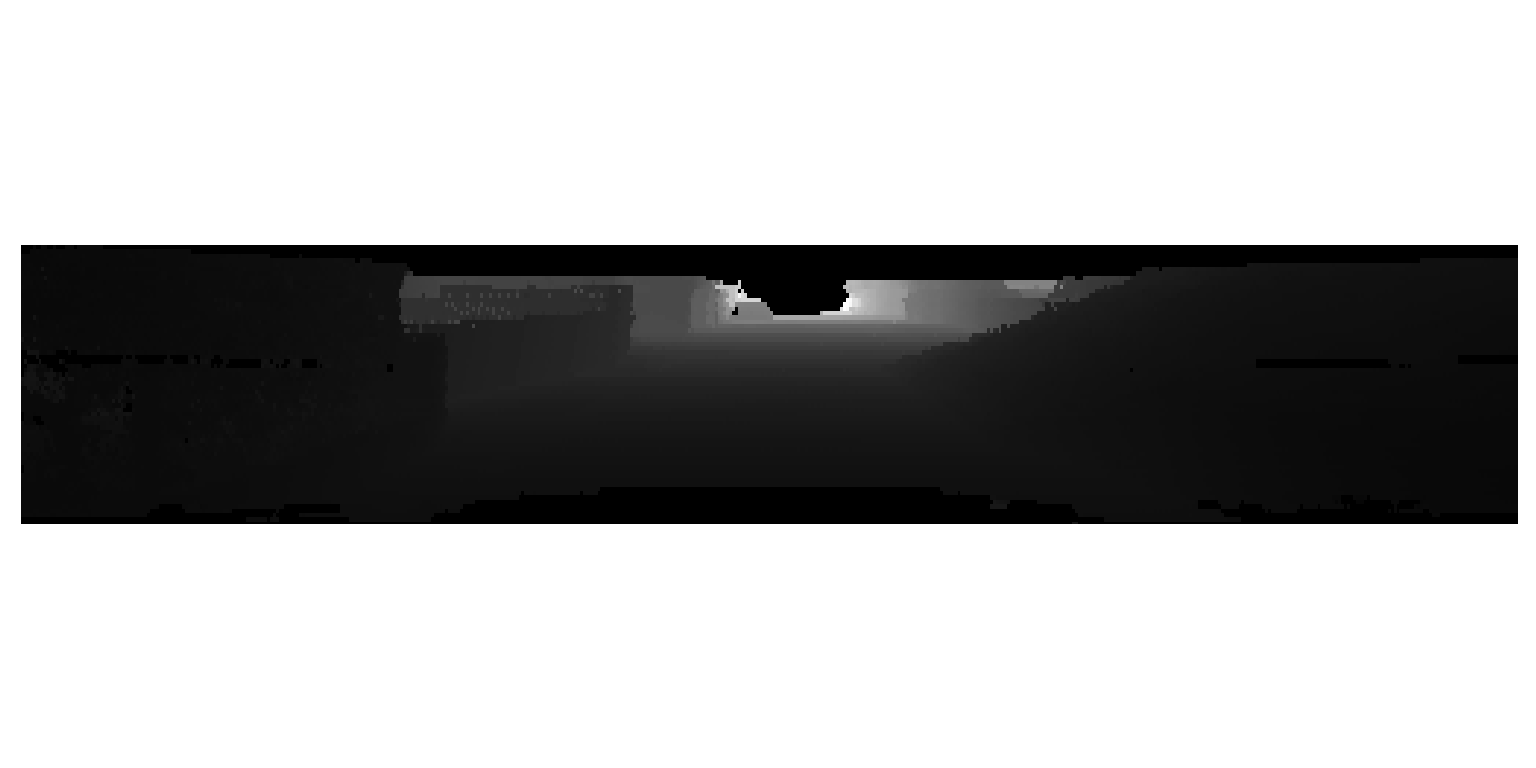
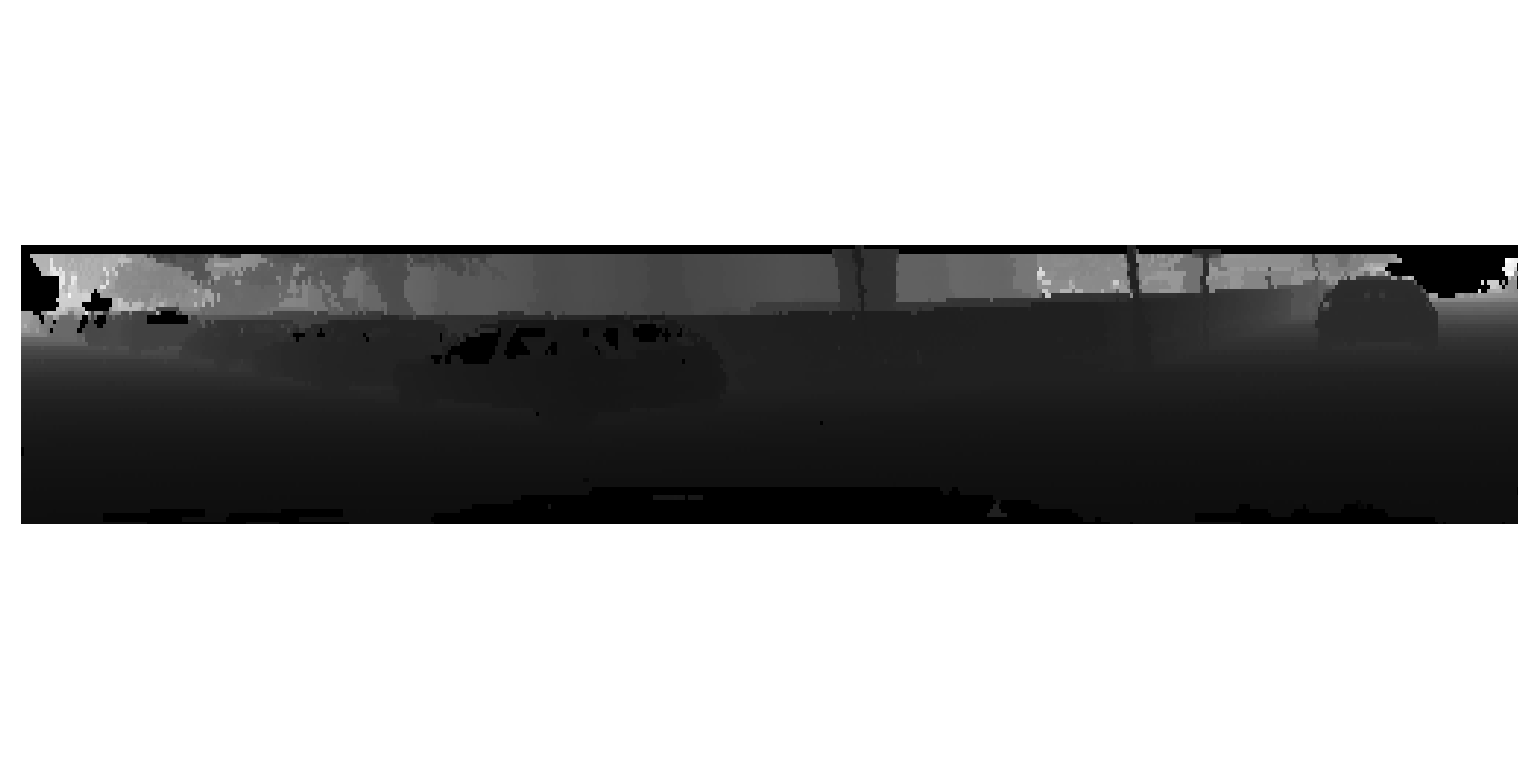
fix: change input shape from [H,W,C] to [C,H,W]

Changed region(s): [[0.0, 0.3125, 1.0, 0.5312], [0.625, 0.6562, 0.6562, 0.6875]]

diff --git a/core/dataset/kitti.py b/core/dataset/kitti.py
@@ -74,8 +74,8 @@ class KITTISpherical(torch.utils.data.dataset.Dataset):
         fmap, gdth, rmap = self.__spherical_project(index)
         fmap = utils.normalized_fmap(fmap, [3, 4])
         # do smooth on range and intensity channel
-        fmap[:, :, 3] = utils.fill_blank(fmap[:, :, 3], 1e-4, 4)
-        fmap[:, :, 4] = utils.fill_blank(fmap[:, :, 4], 1e-4, 4)
+        fmap[3] = utils.fill_blank(fmap[3], 1e-4, 4)
+        fmap[4] = utils.fill_blank(fmap[4], 1e-4, 4)
         gdth = utils.fill_blank(gdth, 1e-4, 4)
 
         return fmap, gdth
@@ -221,21 +221,21 @@ class KITTISpherical(torch.utils.data.dataset.Dataset):
         y = y - y.min()
 
         gdth = np.zeros((self.IMG_H, self.IMG_W))
-        fmap = np.zeros((self.IMG_H, self.IMG_W, 5))
+        fmap = np.zeros((5, self.IMG_H, self.IMG_W))
         rmap = [[[] for _ in range(self.IMG_W)] for _ in range(self.IMG_H)]
 
-        # fill the feature map `fmap` [x, y, z, r, i]
+        # feature vector [x, y, z, r, i], shape [C, H, W]
         # as there might be multiple points projected into one grid
         # I choose not to use np.add.at to parallel projection
         for i in range(len(front_indics)):
             rmap[y[i]][x[i]].append(front_indics[i])
             # select the point with nearest range as the feature pixel
             dist = np.linalg.norm(points[front_indics[i]])
-            if  fmap[y[i], x[i]][3] != 0 and dist < fmap[y[i], x[i]][3]:
-                fmap[y[i], x[i]] = np.array([*points[front_indics[i]], dist, reflec[front_indics[i]]])
+            if  fmap[3, y[i], x[i]] != 0 and dist < fmap[3][y[i], x[i]]:
+                fmap[:, y[i], x[i]] = np.array([*points[front_indics[i]], dist, reflec[front_indics[i]]])
                 gdth[y[i], x[i]] = ptscls[front_indics[i]]
             else:
-                fmap[y[i], x[i]] = np.array([*points[front_indics[i]], dist, reflec[front_indics[i]]])
+                fmap[:, y[i], x[i]] = np.array([*points[front_indics[i]], dist, reflec[front_indics[i]]])
                 gdth[y[i], x[i]] = ptscls[front_indics[i]]
         
         return fmap, gdth, rmap

diff --git a/utils/common.py b/utils/common.py
@@ -69,19 +69,17 @@ def fill_blank(img: np.ndarray, trh: float, num_valid: int):
 
 def normalized_fmap(fmap: np.ndarray, cidx: list):
     """
-    对 [H, W, C] 的特征图的指定通道进行归一化。
+    对 [C, H, W] 的特征图的指定通道进行归一化。
     
-    - param feature_map: 形状为 [H, W, C] 的 NumPy ndarray。
-    - return: 归一化后的特征图，形状为 [H, W, C]。
+    - param feature_map: 形状为 [C, H, W] 的 NumPy ndarray。
+    - return: 归一化后的特征图，形状为 [C, H, W]。
     """
-    # 获取特征图的形状
-    H, W, C = fmap.shape
     
     # 对每个通道进行归一化
     normalized_feature_map = np.zeros_like(fmap, dtype=np.float32)
     for c in cidx:
-        # 获取当前通道的数据
-        channel = fmap[:, :, c]
+        # 获取当前通道的特征图
+        channel = fmap[c]
         
         # 计算当前通道的最小值和最大值
         min_value = np.min(channel)
@@ -94,6 +92,6 @@ def normalized_fmap(fmap: np.ndarray, cidx: list):
             normalized_channel = np.zeros_like(channel, dtype=np.float32)
         
         # 将归一化后的通道赋值回特征图
-        normalized_feature_map[:, :, c] = normalized_channel
+        normalized_feature_map[c] = normalized_channel
     
     return normalized_feature_map

diff --git a/train.py b/train.py
@@ -25,14 +25,19 @@ def main():
         core.dataset.KITTISpherical(
             "data", "train"
         ),
-        batch_size=conf.batch_size,
+        batch_size=conf.dataloader.batch_size,
         shuffle=True,
         num_workers=4
     )
 
+    device = torch.device("cuda" if torch.cuda.is_available() else "cpu")
     model = core.model.squeezeseg.SqueezeSeg(conf.model)
+    model.to(device)
 
     for iter, (fmap, gdth) in enumerate(train_loader):
+        fmap = fmap.to(device)
+        gdth = gdth.to(device)
+        
         pred = model(fmap)
         break
 
